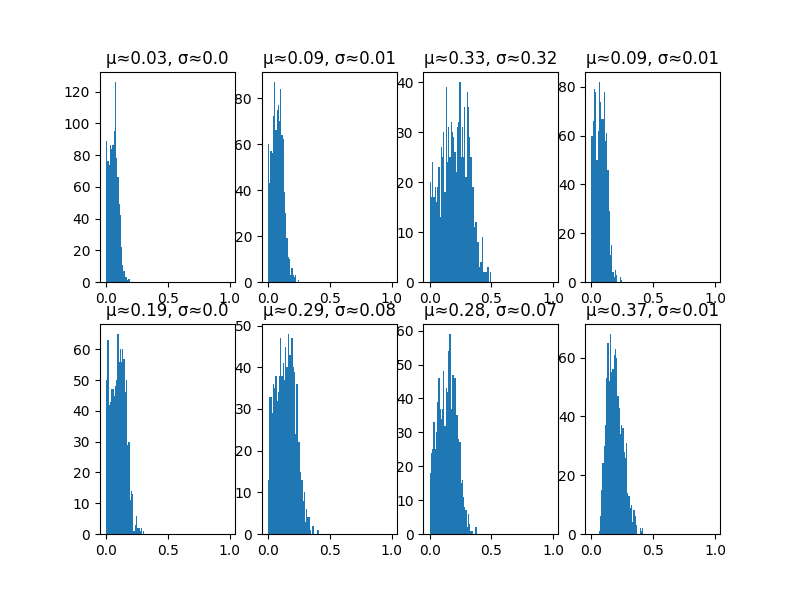
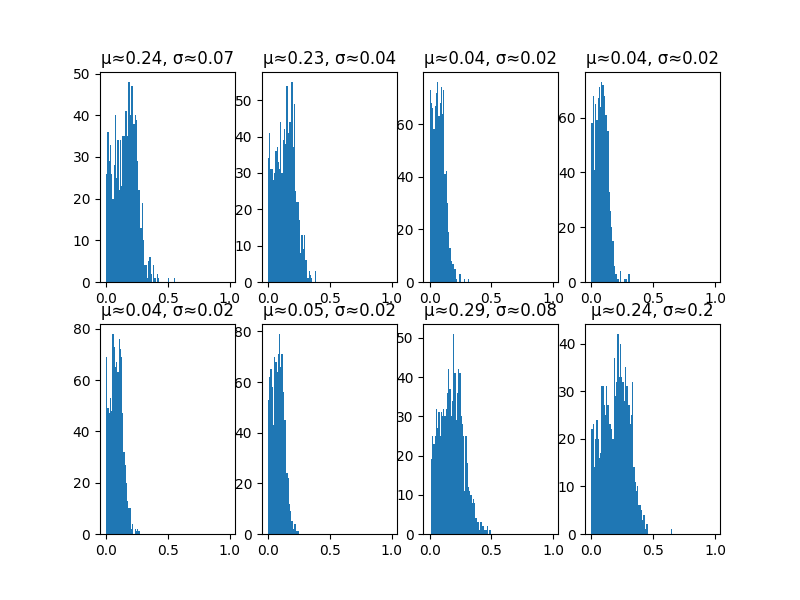
code cleanups

diff --git a/src/script/find_similar_synergies.py b/src/script/find_similar_synergies.py
@@ -23,7 +23,7 @@ def find_all_Hs(data):
         #all_participants = ['c02', 'c04', 'c05', 'c07', 'c08', 'c09', 'c10'] # omitted c06 for now
         #all_tasks = ['10%', '30%', '50%']
         # Use one participant and one task for now
-        all_participants = ['c02']
+        all_participants = ['c07']
         all_tasks = ['10%']
         for participant in all_participants:
             for task in all_tasks:
@@ -105,8 +105,11 @@ def scalar_prod_similarity_normal():
     H_ref_rand = np.zeros([1000,8])
     for emg_count in range(0, num_emgs):
         H_ref_rand[:,emg_count] = np.random.normal(H_refs_emg_means[emg_count], H_refs_emg_stdevs[emg_count], 1000)
+    H_ref_rand[np.where(H_ref_rand < 0)] = 0
+    H_ref_rand = normalize(H_ref_rand, norm='l1')
 
     H_matches_concat = np.concatenate(list(H_matches.values()))  # concatenate all H_refs into one matrix, then find their mean and stdev
+    print("rows in H_matches_concat: " + str(np.shape(H_matches_concat)[0]))
     H_matches_emg_means = np.mean(H_matches_concat, axis=0)
     H_matches_emg_stdevs = np.std(H_matches_concat, axis=0)
     H_matches_rand = np.zeros([1000, 8])
@@ -115,14 +118,13 @@ def scalar_prod_similarity_normal():
     fig, axs = plt.subplots(2, 4)
     for emg_count in range(0, num_emgs):
         H_matches_rand[:,emg_count] = np.random.normal(H_matches_emg_means[emg_count], H_matches_emg_stdevs[emg_count], 1000)
-        if emg_count == 0:
-            axs[0,0].hist(H_matches_rand[:, emg_count], list(np.array(np.arange(0,1,0.01))))
-            title_str = 'μ≈' + str(round(H_matches_emg_means[emg_count], 2)) + ', σ≈' + str(round(H_matches_emg_stdevs[emg_count], 2))
-            axs[0,0].set_title(title_str)
-        else:
-            axs[int(emg_count/4), emg_count % 4].hist(H_matches_rand[:, emg_count], list(np.array(np.arange(0,1,0.01))))
-            title_str = 'μ≈' + str(round(H_matches_emg_means[emg_count], 2)) + ', σ≈' + str(round(H_matches_emg_stdevs[emg_count], 2))
-            axs[int(emg_count/4), emg_count % 4].set_title(title_str)
+    H_matches_rand[np.where(H_matches_rand < 0)] = 0
+    H_matches_rand = normalize(H_matches_rand, norm='l1')
+    # Create plot
+    for emg_count in range(0, num_emgs):
+        axs[int(emg_count/4), emg_count % 4].hist(H_matches_rand[:, emg_count], list(np.array(np.arange(0,1,0.01))))
+        title_str = 'μ≈' + str(round(H_matches_emg_means[emg_count], 2)) + ', σ≈' + str(round(H_matches_emg_stdevs[emg_count], 2))
+        axs[int(emg_count/4), emg_count % 4].set_title(title_str)
     # Plot the histogram of the random values
     plt.savefig('H_matches_rand histogram (normal distrib)')
     plt.show()
@@ -174,8 +176,11 @@ def scalar_prod_similarity_truncnorm():
         H_ref_rand[:,emg_count] = truncnorm.rvs((H_refs_emg_mins[emg_count] - H_refs_emg_means[emg_count]) / H_refs_emg_stdevs[emg_count],
                                                 (H_refs_emg_maxes[emg_count] - H_refs_emg_means[emg_count]) / H_refs_emg_stdevs[emg_count],
                                                 loc=H_refs_emg_means[emg_count], scale=H_refs_emg_stdevs[emg_count], size=1000)
+    H_ref_rand[np.where(H_ref_rand < 0)] = 0
+    H_ref_rand = normalize(H_ref_rand, norm='l1')
 
     H_matches_concat = np.concatenate(list(H_matches.values()))  # concatenate all H_refs into one matrix, then find their mean and stdev
+    print("rows in H_matches_concat: " + str(np.shape(H_matches_concat)[0]))
     H_matches_emg_means = np.mean(H_matches_concat, axis=0)
     H_matches_emg_stdevs = np.std(H_matches_concat, axis=0)
     H_matches_emg_mins = np.min(H_matches_concat, axis=0)
@@ -190,11 +195,10 @@ def scalar_prod_similarity_truncnorm():
             (H_matches_emg_mins[emg_count] - H_matches_emg_means[emg_count]) / H_matches_emg_stdevs[emg_count],
             (H_matches_emg_maxes[emg_count] - H_matches_emg_means[emg_count]) / H_matches_emg_stdevs[emg_count],
             loc=H_matches_emg_means[emg_count], scale=H_matches_emg_stdevs[emg_count], size=1000)
-        if emg_count == 0:
-            axs[0,0].hist(H_matches_rand[:, emg_count], list(np.array(np.arange(0,1,0.01))))
-            title_str = 'μ≈' + str(round(H_matches_emg_means[emg_count], 2)) + ', σ≈' + str(round(H_matches_emg_stdevs[emg_count], 2))
-            axs[0,0].set_title(title_str)
-        else:
+    H_matches_rand[np.where(H_matches_rand < 0)] = 0
+    H_matches_rand = normalize(H_matches_rand, norm='l1')
+
+    for emg_count in range(0, num_emgs):
             axs[int(emg_count/4), emg_count % 4].hist(H_matches_rand[:, emg_count], list(np.array(np.arange(0,1,0.01))))
             title_str = 'μ≈' + str(round(H_matches_emg_means[emg_count], 2)) + ', σ≈' + str(round(H_matches_emg_stdevs[emg_count], 2))
             axs[int(emg_count/4), emg_count % 4].set_title(title_str)
@@ -235,6 +239,8 @@ def scalar_prod_similarity_uniform():
 
     # Find Hs for all the datasets
     H_refs, H_matches = find_all_Hs(datasets)
+    print("H_refs: " + str(H_refs))
+    print("H_matches: " + str(H_matches))
 
     # Generate the random matrices, using a uniform distribution with points ranging from mean-stdev to mean+stdev
     num_emgs = 8
@@ -251,6 +257,7 @@ def scalar_prod_similarity_uniform():
     H_ref_rand = normalize(H_ref_rand, norm='l1')
 
     H_matches_concat = np.concatenate(list(H_matches.values()))  # concatenate all H_refs into one matrix, then find their mean and stdev
+    print("rows in H_matches_concat: " + str(np.shape(H_matches_concat)[0]))
     H_matches_emg_means = np.mean(H_matches_concat, axis=0)
     H_matches_emg_stdevs = np.std(H_matches_concat, axis=0)
     H_matches_emg_mins = np.min(H_matches_concat, axis=0)
@@ -305,5 +312,5 @@ def scalar_prod_similarity_uniform():
 
 if __name__ == "__main__":
     #scalar_prod_similarity_normal()
-    #scalar_prod_similarity_truncnorm()
-    scalar_prod_similarity_uniform()
+    scalar_prod_similarity_truncnorm()
+    #scalar_prod_similarity_uniform()
